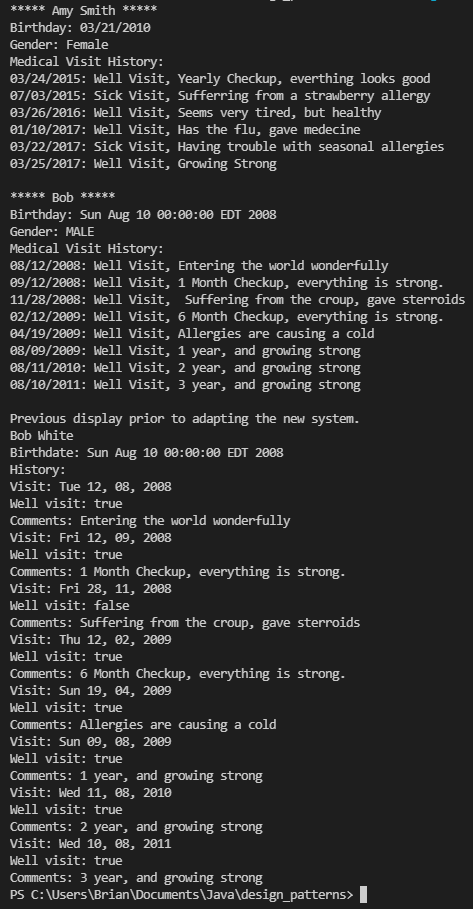
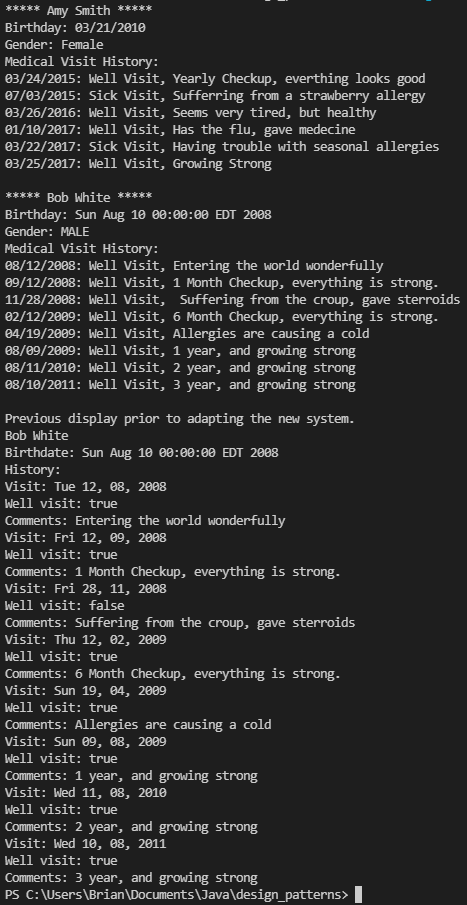
Add JavaDoc

Changed region(s): [[0.0, 0.0, 0.9893, 1.0], [0.8094, 0.1547, 0.9293, 0.1856]]

diff --git a/adapter/MedicalRecordAdapter.java b/adapter/MedicalRecordAdapter.java
@@ -7,10 +7,21 @@ public class MedicalRecordAdapter implements MedicalRecord {
 
     private HealthRecord record;
 
+    /**
+     * Constructs a Medical Record Adapter with a given Health Record.
+     * 
+     * @param HealthRecord to be adapted
+     */
     public MedicalRecordAdapter(HealthRecord record) {
         this.record = record;
     }
 
+    /**
+     * Parses the full name from the HealthRecord and returns everything before the
+     * first space as the patients first name.
+     * 
+     * @returns the patients first name
+     */
     public String getFirstName() {
         String firstName = "";
         for (int i = 0; i < record.getName().length(); i++) {
@@ -22,6 +33,12 @@ public class MedicalRecordAdapter implements MedicalRecord {
         return firstName;
     }
 
+    /**
+     * Returns everything from the patients full name in the health record after the
+     * index given by the length of their first name + 1.
+     * 
+     * @returns the patients last name
+     */
     public String getLastName() {
         String lastName = "";
         for (int i = getFirstName().length() + 1; i < record.getName().length(); i++) {
@@ -30,10 +47,18 @@ public class MedicalRecordAdapter implements MedicalRecord {
         return lastName;
     }
 
+    /**
+     * @returns the birthday from the Health Record
+     */
     public Date getBirthday() {
         return record.getBirthdate();
     }
 
+    /**
+     * Converts the patients gender from a string to an enum.
+     * 
+     * @returns the patients gender
+     */
     public Gender getGender() {
         if (record.getGender().equals("Male")) {
             return Gender.MALE;
@@ -48,11 +73,21 @@ public class MedicalRecordAdapter implements MedicalRecord {
         record.addHistory(date, well, description);
     }
 
+    /**
+     * Converts the HealthRecord's history array of strings into an array of visits.
+     * 
+     * Uses information obtained using substrings from each string at predetermined
+     * indexes since the format of the strings is known.
+     * 
+     * @returns the visit ArrayList
+     */
     public ArrayList<Visit> getVisitHistory() {
         ArrayList<Visit> visits = new ArrayList<Visit>();
         for (String visit : record.getHistory()) {
+
             Date date = makeDate(Integer.parseInt(visit.substring(19, 23)), Integer.parseInt(visit.substring(15, 17)),
                     Integer.parseInt(visit.substring(11, 13)));
+
             Boolean well = false;
             if (visit.substring(24, 28).equals("Well")) {
                 well = true;
@@ -64,9 +99,12 @@ public class MedicalRecordAdapter implements MedicalRecord {
         return visits;
     }
 
+    /**
+     * Formats the petients new medical record into a readable string.
+     */
     public String toString() {
         String string = "";
-        string += "***** " + getFirstName() + " *****\n";
+        string += "***** " + getFirstName() + " " + getLastName() + " *****\n";
         string += "Birthday: " + getBirthday() + "\n";
         string += "Gender: " + getGender() + "\n";
         string += "Medical Visit History:\n";
